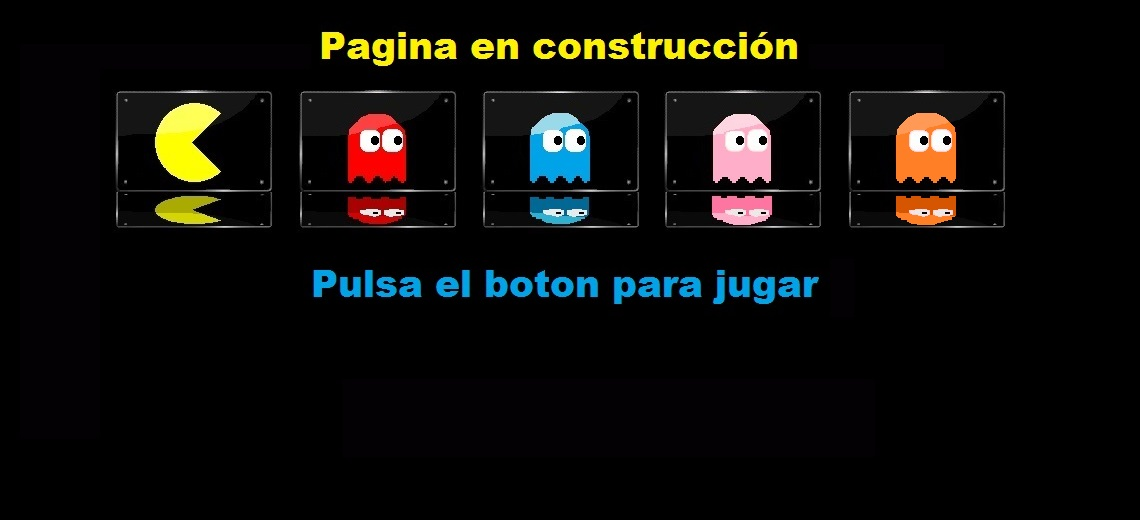
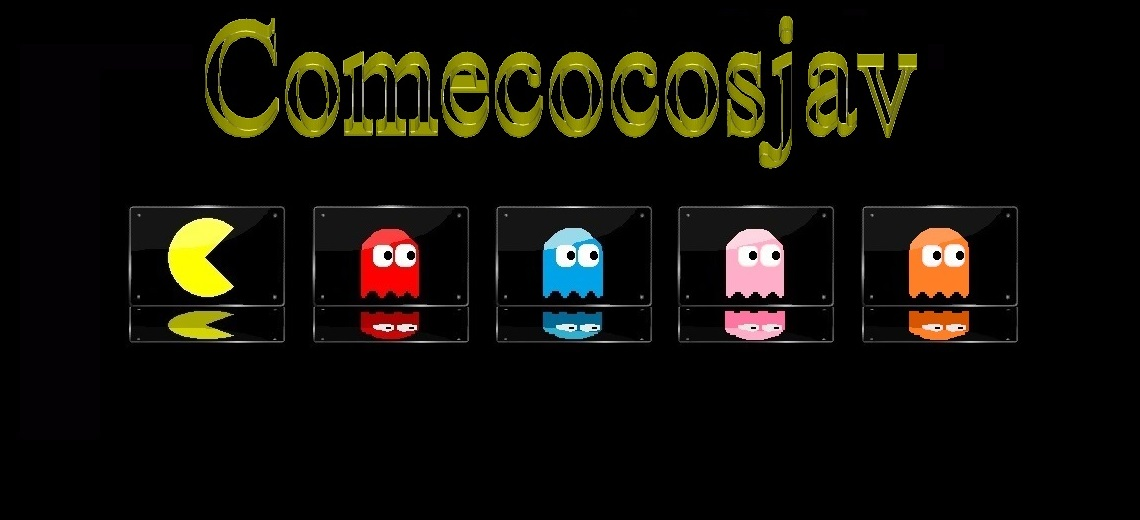
Add files via upload

Changed region(s): [[0.0921, 0.0308, 0.8904, 0.6769], [0.7368, 0.4923, 0.7675, 0.5231]]

diff --git a/index.html b/index.html
@@ -67,26 +67,29 @@ fondo.style.height="100%"
 fondo.style.visibility="visible"
 miformulario.appendChild(fondo)
 
-
-var botonir=document.createElement('input')
-botonir.onclick=jugar
-botonir.type='button'
-botonir.name="botonir"
-botonir.id='b1'
-botonir.style.backgroundImage = "url('IMGBOTON.png')";
-botonir.style.width="209px"
-botonir.style.height="66px"
+var botonir=new Image()
+botonir.onmousedown=jugar1
+botonir.onmouseup=jugar2
+botonir.src = "IMGBOTON1.png"
+botonir.style.width="203px"
+botonir.style.height="86px"
 botonir.style.position="absolute"
-botonir.style.margin = "540px 40%" //" 100px 100px 100px"
+botonir.style.margin = "520px 40%" //" 100px 100px 100px"
 botonir.style.display="block";
+botonir.style.border="0px"
 //botonir.style.border="3px solid "+"blue"
 miformulario.appendChild(botonir)
 
 
+function jugar1(e){
+e.preventDefault()
+botonir.src = "IMGBOTON2.png"	
+}
 
-
-function jugar(){
-document.location.href="https://fjlopezibarra.github.io/comecocosjav/juego/index.html"
+function jugar2(e){
+e.preventDefault()
+botonir.src = "IMGBOTON1.png"
+document.location.href="../mipaginaweb/juego/come.html"
 }
 
 
